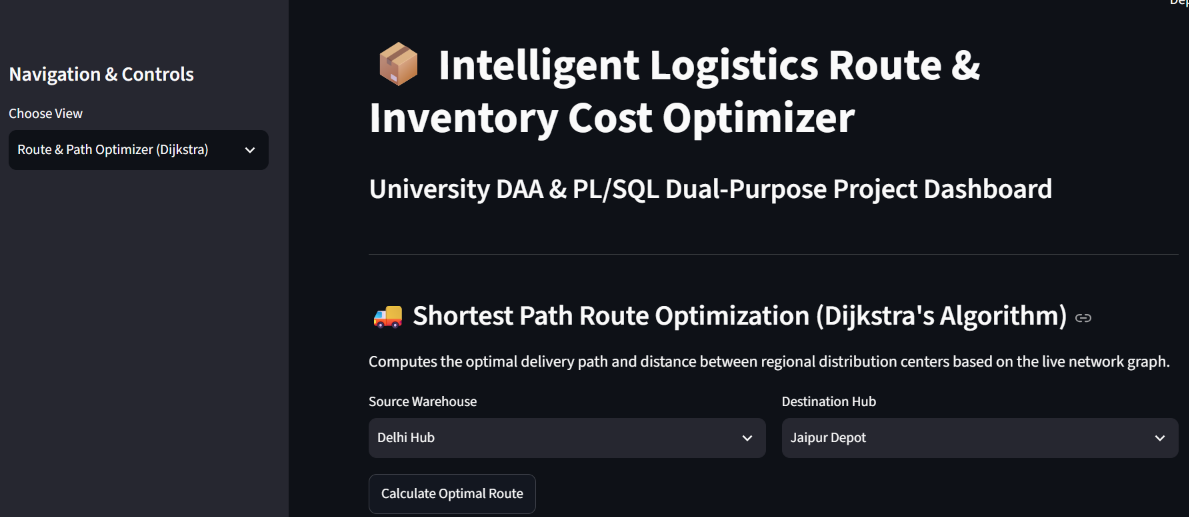
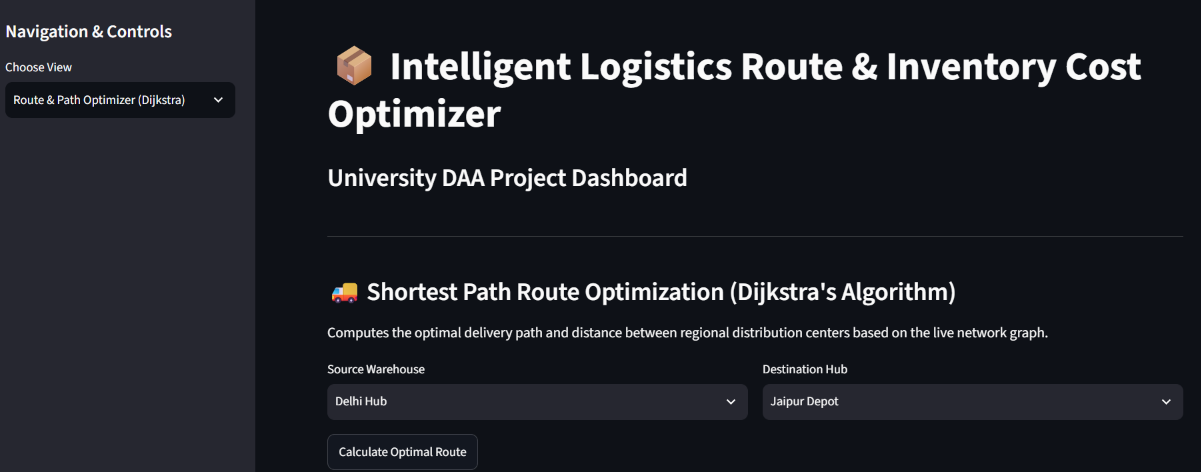
Updated app.py

diff --git a/app.py b/app.py
@@ -12,7 +12,7 @@ import pandas as pd
 st.set_page_config(page_title="Intelligent Logistics & DAA Optimizer", layout="wide")
 
 st.title("📦 Intelligent Logistics Route & Inventory Cost Optimizer")
-st.markdown("### University DAA & PL/SQL Dual-Purpose Project Dashboard")
+st.markdown("### University DAA Project Dashboard")
 st.markdown("---")
 
 # --- INITIALIZE SESSION STATE FOR DYNAMIC DATABASE ---
